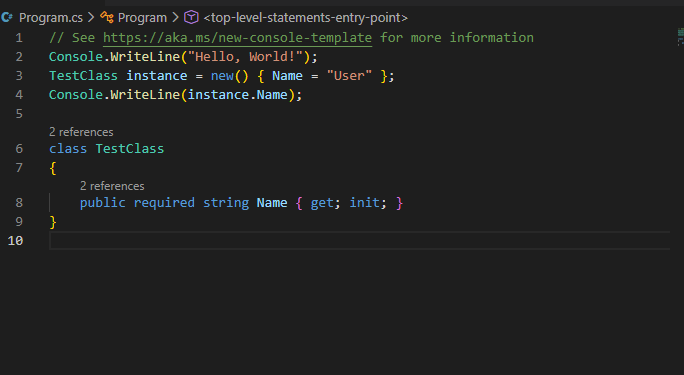
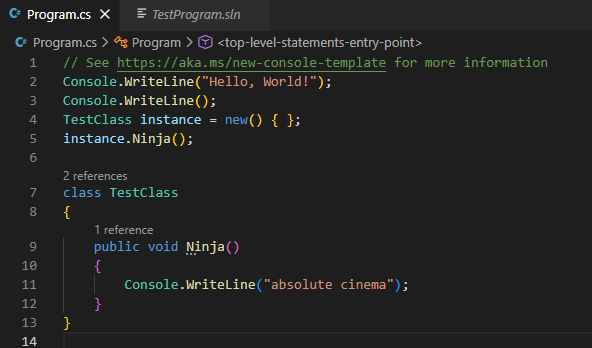
feat: add call hiding

diff --git a/Program.cs b/Program.cs
@@ -1,11 +1,13 @@
-// See https://aka.ms/new-console-template for more information
-using AsmResolver.DotNet;
+using AsmResolver.DotNet;
+using AsmResolver.DotNet.Code.Cil;
 using AsmResolver.DotNet.Signatures;
-
-Console.WriteLine("Hello, World!");
+using AsmResolver.PE.DotNet.Cil;
+using AsmResolver.PE.DotNet.Metadata.Tables.Rows;
 
 var module = ModuleDefinition.FromFile(args[0]);
 var factory = module.CorLibTypeFactory;
+
+// CompilerGeneratedAttribute ctor
 var compilerGeneratedAttribute = factory
     .CorLibScope.CreateTypeReference(
         "System.Runtime.CompilerServices",
@@ -13,13 +15,108 @@ var compilerGeneratedAttribute = factory
     )
     .CreateMemberReference(".ctor", MethodSignature.CreateInstance(factory.Void))
     .ImportWith(module.DefaultImporter);
+
+// Rename + mark types
 foreach (var type in module.GetAllTypes())
 {
-    if (!type.IsClass || type.IsModuleType || type.IsCompilerGenerated())
-    {
+    if (type.IsValueType || !type.IsClass || type.IsModuleType || type.IsCompilerGenerated())
         continue;
-    }
+
     type.CustomAttributes.Add(new CustomAttribute(compilerGeneratedAttribute));
     type.Name = $"<>AnonType_{type.MetadataToken}";
 }
+
+// Hide calls in anonymous types constructors
+foreach (var type in module.GetAllTypes())
+{
+    foreach (var method in type.Methods)
+    {
+        if (method.CilMethodBody is not { } body)
+            continue;
+
+        var instructions = body.Instructions;
+
+        for (int i = 0; i < instructions.Count; i++)
+        {
+            var instruction = instructions[i];
+
+            if (
+                (instruction.OpCode != CilOpCodes.Call && instruction.OpCode != CilOpCodes.Callvirt)
+                || instruction.Operand
+                    is not IMethodDescriptor
+                    {
+                        Signature: { ReturnsValue: false, HasThis: false }
+                    } targetDescriptor
+                || targetDescriptor.Resolve() is not { } target
+            )
+                continue;
+
+            var anonymousType = CreateAnonymousTypeForCall(module, target);
+            var anonymousTypeConstructor = anonymousType.Methods.Single(m => m.Name == ".ctor");
+
+            // Replace call with newobj
+            instruction.OpCode = CilOpCodes.Newobj;
+            instruction.Operand = module.DefaultImporter.ImportMethod(anonymousTypeConstructor);
+
+            // Discard created object
+            instructions.Insert(i + 1, CilOpCodes.Pop);
+            i++;
+        }
+    }
+}
+
 module.Write("out.dll");
+return;
+
+TypeDefinition CreateAnonymousTypeForCall(ModuleDefinition module, MethodDefinition target)
+{
+    var anonymousType = new TypeDefinition(
+        "",
+        $"<>AnonType_{Guid.NewGuid():N}",
+        TypeAttributes.Class | TypeAttributes.NotPublic | TypeAttributes.Sealed,
+        factory.Object.Type
+    );
+    anonymousType.CustomAttributes.Add(new CustomAttribute(compilerGeneratedAttribute));
+
+    var constructorSignature = MethodSignature.CreateInstance(
+        factory.Void,
+        [.. target.Signature!.ParameterTypes]
+    );
+    var constructor = new MethodDefinition(
+        ".ctor",
+        MethodAttributes.Public
+            | MethodAttributes.HideBySig
+            | MethodAttributes.SpecialName
+            | MethodAttributes.RuntimeSpecialName,
+        constructorSignature
+    );
+
+    var body = new CilMethodBody(constructor);
+    var instructions = body.Instructions;
+
+    // object::.ctor
+    var objectConstructor = factory.Object.Type.Resolve()!.GetConstructor()!;
+
+    instructions.Add(CilOpCodes.Ldarg_0);
+    instructions.Add(CilOpCodes.Call, module.DefaultImporter.ImportMethod(objectConstructor));
+
+    // forward arguments
+    for (int i = 0; i < constructor.Parameters.Count; i++)
+    {
+        instructions.Add(CilOpCodes.Ldarg, constructor.Parameters[i]);
+    }
+
+    instructions.Add(
+        target.IsVirtual ? CilOpCodes.Callvirt : CilOpCodes.Call,
+        module.DefaultImporter.ImportMethod(target)
+    );
+
+    instructions.Add(CilOpCodes.Ret);
+    instructions.CalculateOffsets();
+
+    constructor.CilMethodBody = body;
+    anonymousType.Methods.Add(constructor);
+    module.TopLevelTypes.Add(anonymousType);
+
+    return anonymousType;
+}

diff --git a/README.md b/README.md
@@ -1,6 +1,7 @@
 # DotnetTypeHider
 
 Hides classes from some decompilers by setting CompilerGenerate flag and changing name to resemble an anonymous type.
-Heavily inspired by <https://github.com/Washi1337/AwaitFuscator>
+Hide method calls in anonymous type constructors.
+Inspired by <https://github.com/Washi1337/AwaitFuscator>
 ![Input Program](input.png)
 ![Output Program](output.png)
